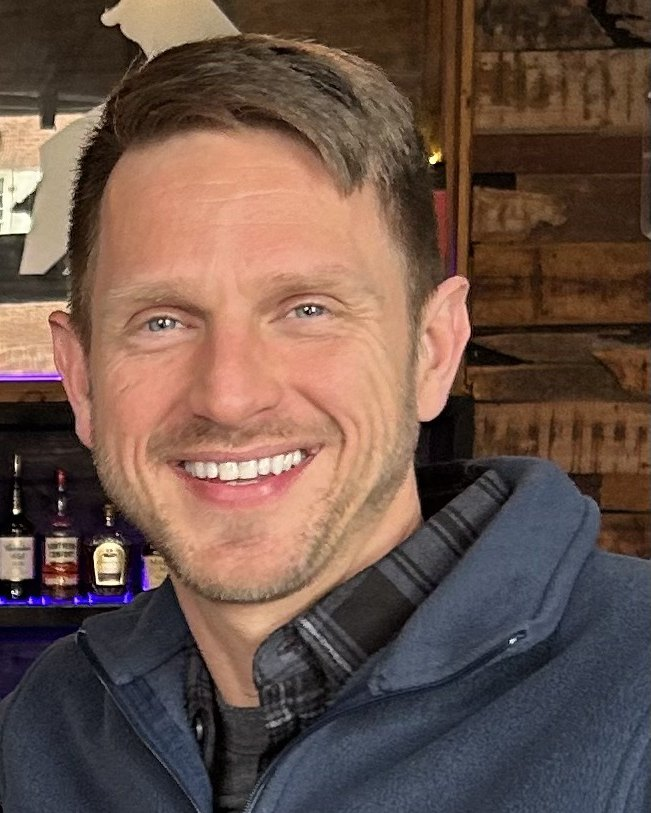
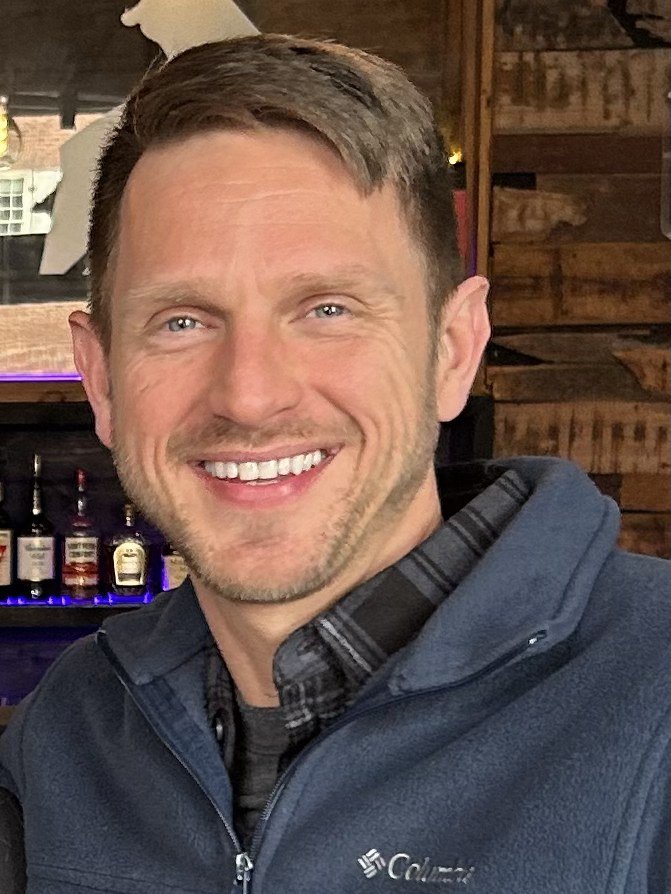
Headshot: wider 3:4 crop with full face, top-anchored, smaller on mobile

diff --git a/css/style.css b/css/style.css
@@ -46,11 +46,11 @@ p{margin:0 0 1em}
 
 .placeholder{position:relative;border:1.5px dashed var(--brass);background:repeating-linear-gradient(135deg,#f1ebe0 0 14px,#ece5d8 14px 28px);border-radius:var(--r)}
 .ph-tag{position:absolute;top:12px;left:12px;background:var(--bronze);color:#f5efe4;font-size:11px;font-weight:600;letter-spacing:.14em;text-transform:uppercase;padding:4px 9px;border-radius:2px}
-.portrait{aspect-ratio:4/5;display:flex;flex-direction:column;align-items:center;justify-content:center;gap:16px;box-shadow:18px 18px 0 -1px var(--paper-2),18px 18px 0 0 var(--line)}
+.portrait{aspect-ratio:3/4;display:flex;flex-direction:column;align-items:center;justify-content:center;gap:16px;box-shadow:18px 18px 0 -1px var(--paper-2),18px 18px 0 0 var(--line)}
 .ph-icon{width:96px;height:96px;border-radius:50%;border:1.5px solid var(--brass);position:relative}
 .ph-icon::after{content:"";position:absolute;left:50%;top:50%;width:34px;height:34px;transform:translate(-50%,-62%);border-radius:50%;background:#d8ccb7}
 .ph-text{font-size:14px;color:var(--bronze);letter-spacing:.02em}
-.portrait-photo{width:100%;aspect-ratio:4/5;object-fit:cover;border-radius:var(--r);box-shadow:18px 18px 0 -1px var(--paper-2),18px 18px 0 0 var(--line)}
+.portrait-photo{width:100%;height:auto;aspect-ratio:3/4;object-fit:cover;object-position:center top;border-radius:var(--r);box-shadow:18px 18px 0 -1px var(--paper-2),18px 18px 0 0 var(--line)}
 .about-copy .bio{color:var(--ink-soft);margin:24px 0 36px}
 .ph-block{padding:52px 28px 24px;margin:28px 0 36px}
 .ph-block p{color:var(--bronze)}
@@ -134,6 +134,7 @@ p{margin:0 0 1em}
   .pillar,.pillar+.pillar{padding:24px 0 6px;border-left:0}
   .pillar+.pillar{border-top:1px solid var(--line)}
   .section{padding:64px 20px 24px}.page-head{padding:52px 20px 28px}
+  .hero-photo,.about-grid>div:first-child{max-width:300px}
   .portrait-photo{box-shadow:10px 10px 0 -1px var(--paper-2),10px 10px 0 0 var(--line)}
   .portrait{box-shadow:10px 10px 0 -1px var(--paper-2),10px 10px 0 0 var(--line)}
   .facts li{grid-template-columns:1fr;gap:2px}

diff --git a/about.html b/about.html
@@ -8,7 +8,7 @@
 <link rel="preconnect" href="https://fonts.googleapis.com">
 <link rel="preconnect" href="https://fonts.gstatic.com" crossorigin>
 <link href="https://fonts.googleapis.com/css2?family=Cormorant+Garamond:ital,wght@0,500;0,600;1,500&family=Inter:wght@400;500;600&display=swap" rel="stylesheet">
-<link rel="stylesheet" href="css/style.css">
+<link rel="stylesheet" href="css/style.css?v=2">
 </head>
 <body>
 <header class="site-header">
@@ -24,7 +24,7 @@
   <h1>About me</h1>
 </section>
 <section class="wrap about-grid">
-  <div><img class="portrait-photo" src="img/matthew-nothdurft.jpg" alt="Matthew Nothdurft" width="651" height="813"></div>
+  <div><img class="portrait-photo" src="img/matthew-nothdurft.jpg?v=2" alt="Matthew Nothdurft" width="671" height="894"></div>
   <div class="about-copy">
     <p class="lede">I'm Matthew Nothdurft, a licensed real estate broker and the founder of MJN Realty, based in the Adirondack region of New York.</p>
     <p class="bio">I grew up on the shores of Schroon Lake, kindergarten through twelfth grade, with the mountains for a backyard and the lake for a playground. College took me just down the road to Queensbury, and work carried me farther, to other towns and other lives. But this lake has a way of calling you home. Now I&rsquo;m back, swimming and boating the same clear water and still finding something new around every bend.</p>

diff --git a/index.html b/index.html
@@ -8,7 +8,7 @@
 <link rel="preconnect" href="https://fonts.googleapis.com">
 <link rel="preconnect" href="https://fonts.gstatic.com" crossorigin>
 <link href="https://fonts.googleapis.com/css2?family=Cormorant+Garamond:ital,wght@0,500;0,600;1,500&family=Inter:wght@400;500;600&display=swap" rel="stylesheet">
-<link rel="stylesheet" href="css/style.css">
+<link rel="stylesheet" href="css/style.css?v=2">
 </head>
 <body>
 <header class="site-header">
@@ -31,7 +31,7 @@
         <a class="btn ghost" href="contact.html">Get in touch</a>
       </div>
     </div>
-    <div class="hero-photo"><img class="portrait-photo" src="img/matthew-nothdurft.jpg" alt="Matthew Nothdurft" width="651" height="813"></div>
+    <div class="hero-photo"><img class="portrait-photo" src="img/matthew-nothdurft.jpg?v=2" alt="Matthew Nothdurft" width="671" height="894"></div>
   </div>
 </section>
 

diff --git a/contact.html b/contact.html
@@ -8,7 +8,7 @@
 <link rel="preconnect" href="https://fonts.googleapis.com">
 <link rel="preconnect" href="https://fonts.gstatic.com" crossorigin>
 <link href="https://fonts.googleapis.com/css2?family=Cormorant+Garamond:ital,wght@0,500;0,600;1,500&family=Inter:wght@400;500;600&display=swap" rel="stylesheet">
-<link rel="stylesheet" href="css/style.css">
+<link rel="stylesheet" href="css/style.css?v=2">
 </head>
 <body>
 <header class="site-header">

diff --git a/ventures.html b/ventures.html
@@ -8,7 +8,7 @@
 <link rel="preconnect" href="https://fonts.googleapis.com">
 <link rel="preconnect" href="https://fonts.gstatic.com" crossorigin>
 <link href="https://fonts.googleapis.com/css2?family=Cormorant+Garamond:ital,wght@0,500;0,600;1,500&family=Inter:wght@400;500;600&display=swap" rel="stylesheet">
-<link rel="stylesheet" href="css/style.css">
+<link rel="stylesheet" href="css/style.css?v=2">
 </head>
 <body>
 <header class="site-header">

diff --git a/build.py b/build.py
@@ -27,7 +27,7 @@ def page(fname, title, desc, body):
 <link rel="preconnect" href="https://fonts.googleapis.com">
 <link rel="preconnect" href="https://fonts.gstatic.com" crossorigin>
 <link href="https://fonts.googleapis.com/css2?family=Cormorant+Garamond:ital,wght@0,500;0,600;1,500&family=Inter:wght@400;500;600&display=swap" rel="stylesheet">
-<link rel="stylesheet" href="css/style.css">
+<link rel="stylesheet" href="css/style.css?v=2">
 </head>
 <body>
 <header class="site-header">
@@ -56,7 +56,7 @@ def page(fname, title, desc, body):
 </html>
 """
 
-PORTRAIT = """<img class="portrait-photo" src="img/matthew-nothdurft.jpg" alt="Matthew Nothdurft" width="651" height="813">"""
+PORTRAIT = """<img class="portrait-photo" src="img/matthew-nothdurft.jpg?v=2" alt="Matthew Nothdurft" width="671" height="894">"""
 
 HOME = f"""
 <section class="hero">
